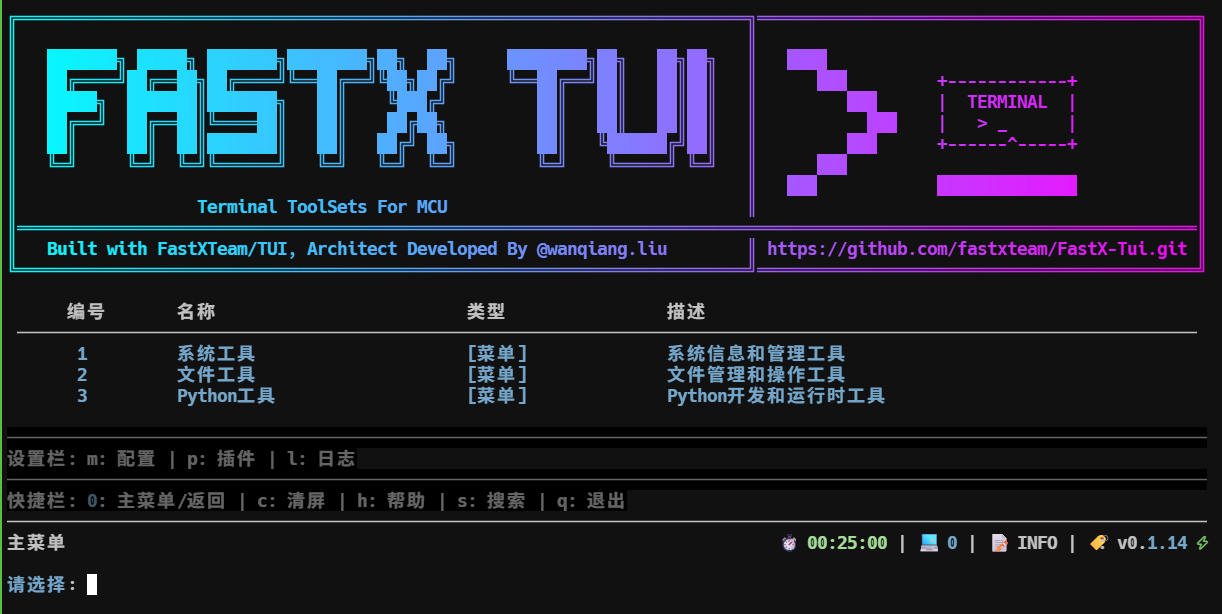
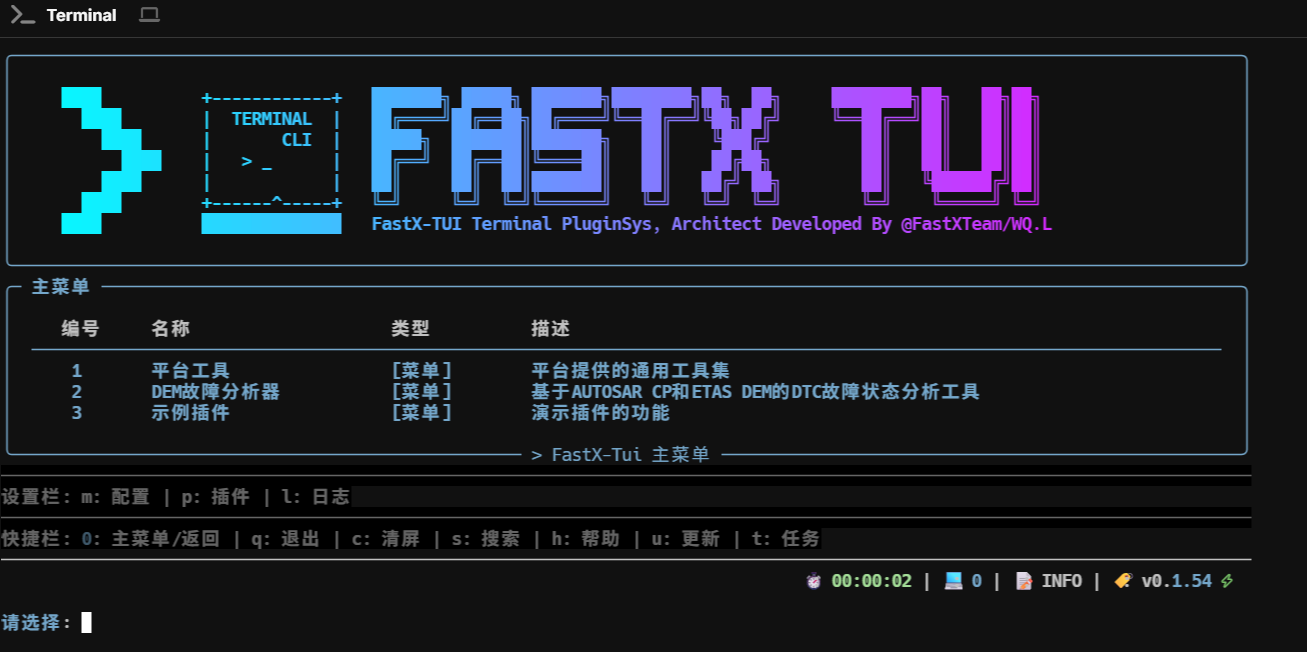
更新README

Changed region(s): [[0.0, 0.0, 0.9951, 0.9283], [0.0, 0.9283, 0.0933, 0.9902]]

diff --git a/README.md b/README.md
@@ -1,8 +1,36 @@
 # FastX-Tui
 
-统一视图架构的终端用户界面应用程序，提供系统管理、文件管理、Python开发工具等功能。
+统一视图架构的终端用户界面应用程序，提供系统管理、文件管理、Python开发工具等功能，采用模块化设计，支持插件扩展，拥有美观的终端界面和流畅的用户体验。
 
 ![](asserts/product.png)
+
+## 🎯 项目定位
+
+FastX-Tui 是一款面向开发者和系统管理员的终端应用程序，旨在提供一个统一的、高效的终端工作环境，整合多种常用工具和功能，提升终端操作效率。
+
+## 🏗 核心架构
+
+- **统一视图架构** - 采用分层设计，视图与逻辑分离，支持灵活的界面布局
+- **异步任务处理** - 内置异步任务队列，命令执行不阻塞主线程
+- **插件扩展系统** - 支持插件开发和扩展，方便添加新功能
+- **模块化设计** - 功能模块化，易于维护和扩展
+- **美观终端界面** - 使用 Rich 库构建美观的终端界面
+
+## ⚡ 核心优势
+
+- **高效操作** - 统一的命令入口，减少上下文切换
+- **异步执行** - 长时间运行的命令不影响界面响应
+- **插件生态** - 支持插件扩展，可根据需求定制功能
+- **美观界面** - 现代化的终端界面设计，提升使用体验
+- **跨平台兼容** - 支持 Windows、Linux、macOS 等主流操作系统
+
+## 📋 适用场景
+
+- **系统管理** - 查看系统信息、网络状态、进程列表等
+- **文件管理** - 目录浏览、文件搜索、文件树查看等
+- **Python开发** - Python环境信息、包管理、模块导入检查等
+- **日常工具** - 集成常用命令和工具，减少重复操作
+- **插件开发** - 提供插件开发接口，方便扩展自定义功能
 
 ## ✨ 功能特性
 
@@ -39,6 +67,13 @@
 
 ### 📊 日志管理
 - 查看和管理应用日志
+
+### 📋 任务管理
+- 异步任务队列
+- 任务状态跟踪
+- 任务结果查看
+- 任务历史管理
+- 快捷键 `t` 查看任务列表
 
 ## 📦 安装
 
@@ -91,14 +126,18 @@ python main.py
 | `m`    | 配置管理 |
 | `p`    | 插件管理 |
 | `q`    | 退出 |
+| `t`    | 任务管理 |
+| `u`    | 检查更新 |
 
 ## 🎨 界面
 
 - **欢迎界面** - 显示版本信息和系统信息
 - **主菜单** - 所有功能的入口
-- **状态栏** - 显示版本、时间、命令计数等信息
-- **快捷栏** - 显示常用快捷键
-- **设置栏** - 显示配置、插件、日志等快捷入口
+- **面包屑导航** - 显示当前菜单层级关系，位于菜单标题位置
+- **底部面板** - 整合了设置栏、快捷栏和状态栏
+  - 设置栏：显示配置、插件、日志等快捷入口
+  - 快捷栏：显示常用快捷键
+  - 状态栏：显示版本、时间、命令计数等信息
 
 ## 🔧 配置
 
@@ -111,6 +150,7 @@ python main.py
 - `show_banner` - 是否显示横幅
 - `show_welcome_page` - 是否显示欢迎页面
 - `auto_clear_screen` - 是否自动清屏
+- `use_async_tasks` - 是否使用异步任务执行命令
 
 ## 🧩 插件开发
 
